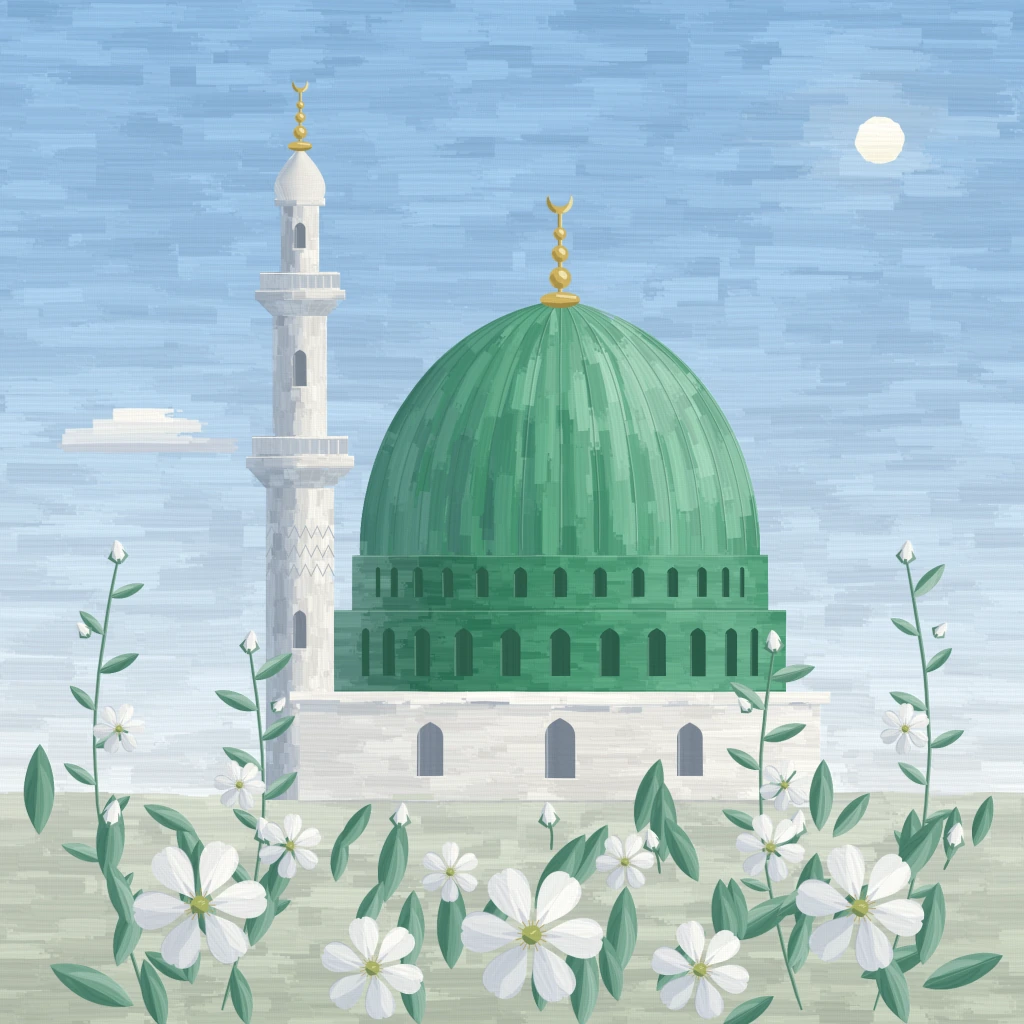
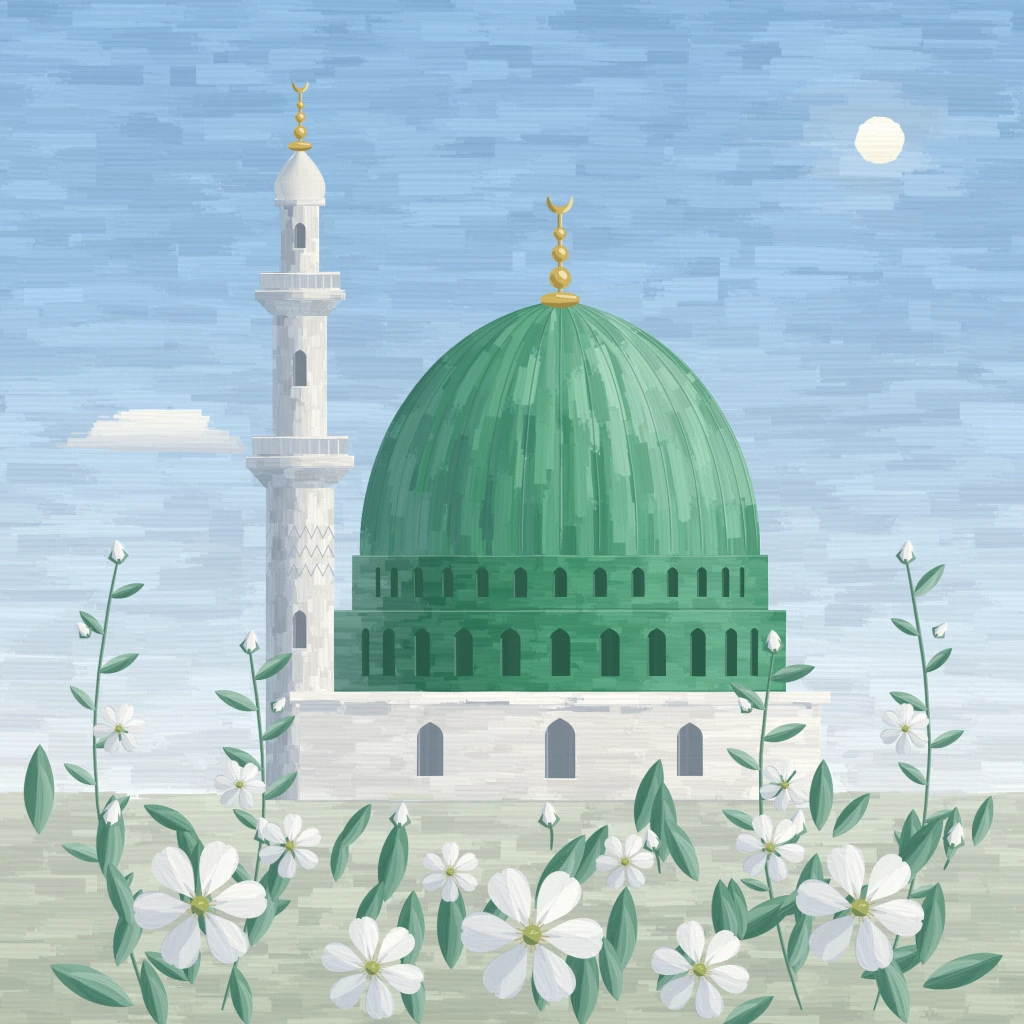
Atölye: altıncı tur son denetimi: S-201–S-210 düzeltmeleri
Claude-Session: https://claude.ai/code/session_01Q8CfoBGMPN7gfLWQYpMs1J

diff --git a/atolye/stiller/S-202-beyaz-astarda-mucevher-renkler/ornek.html b/atolye/stiller/S-202-beyaz-astarda-mucevher-renkler/ornek.html
@@ -429,7 +429,7 @@ const M = (function () {
     if (yk) { YUK[1].save(); YUK[1].clip(o.yol, o.kural || 'nonzero'); }
     for (const [x, y] of nok) {
       if (o.icinde && !o.icinde(x, y)) continue;
-      const boy = o.boy[0] + r() * (o.boy[1] - o.boy[0]);
+      const boy = (o.boy[0] + r() * (o.boy[1] - o.boy[0])) * (o.boyK ? o.boyK(x, y) : 1);
       const en = o.en[0] + r() * (o.en[1] - o.en[0]);
       const P0 = o.akis ? akisDarbe(x, y, o.yon, boy) : cizgiDarbe(x, y, o.yon(x, y, r), boy, (o.egri || 0) * (r() - 0.3), r);
       const c = o.renk(x, y, r);
@@ -716,11 +716,11 @@ const M = (function () {
     BMg.save(); BMg.setTransform(1, 0, 0, 1, 0, 0); BMg.drawImage(GM, 0, 0); BMg.restore();
   }
   // sırlar: az sayıda, geniş (8–14 px), saydam darbe; çoğu yatay, aralarında beyaz astar parlar. Her sır katı kendi
-  // içinde üst üste yığılmaz (bir kat = bir film), katlar birbirinin üstüne çarpılır. Güneşin çevresinde darbeler teğet döner.
+  // içinde üst üste yığılmaz (bir kat = bir film), katlar birbirinin üstüne çarpılır. Güneşin çevresinde darbeler teğet döner ve kısalır (uzun teğet darbeler yıldız kolu gibi uzamasın).
   const gYon = (x, y, r, sap) => { const d = Math.hypot(x - gunes.x, y - gunes.y); return d < 80 ? Math.atan2(y - gunes.y, x - gunes.x) + Math.PI / 2 + (r() - 0.5) * 0.2 : (r() - 0.5) * sap; };
   const gRenk = (us, jj) => (x, y, r) => { const c = kok(gokHedef(x, y), us); const j = (r() - 0.5) * jj, h = (r() - 0.5) * jj * 0.6; return [c[0] + j - Math.abs(h) * 0.3, c[1] + j + h * 0.4, c[2] + j * 0.35]; };
   const gunesUzak = (d0) => (x, y) => gokIc(x, y) && Math.hypot(x - gunes.x, y - gunes.y) > d0;
-  sir((k) => gokKat(k, { kutu: [-30, -20, 1054, 806], aralik: 14, boy: [70, 150], en: [11, 14], yon: (x, y, r) => gYon(x, y, r, 0.07), icinde: gokIc, renk: gRenk(0.64, 12), egri: 0.05, darbe: { a: 0.92, govde: 0.9, kil: 6, kilK: 6, kilA: 0.3, yuk: 0.7, uc: 'kare', bas: 0.9, govdeSon: 0.8 }, tohum: 2 }), [0, 0, 1024, 810], { sil: BM });
+  sir((k) => gokKat(k, { kutu: [-30, -20, 1054, 806], aralik: 14, boy: [70, 150], boyK: (x, y) => { const d = Math.hypot(x - gunes.x, y - gunes.y); return d < 80 ? 0.42 + 0.58 * Math.pow(sat((d - 24) / 56), 1.5) : 1; }, en: [11, 14], yon: (x, y, r) => gYon(x, y, r, 0.07), icinde: gokIc, renk: gRenk(0.64, 12), egri: 0.05, darbe: { a: 0.92, govde: 0.9, kil: 6, kilK: 6, kilA: 0.3, yuk: 0.7, uc: 'kare', bas: 0.9, govdeSon: 0.8 }, tohum: 2 }), [0, 0, 1024, 810], { sil: BM });
   sir((k) => gokKat(k, { kutu: [-20, -20, 1044, 806], aralik: 20, boy: [50, 110], en: [9, 13], yon: (x, y, r) => (r() - 0.5) * 0.25, icinde: gunesUzak(70), renk: gRenk(0.26, 10), egri: 0.08, darbe: { a: 0.9, govde: 0.9, kil: 4, kilK: 5, kilA: 0.3, yuk: 0.75, uc: 'kare', bas: 0.85, govdeSon: 0.8 }, tohum: 3 }), [0, 0, 1024, 810], { sil: BM });
   // hafif ikinci geçiş: tek bir açıda, seyrek
   sir((k) => gokKat(k, { kutu: [-20, -20, 1044, 806], aralik: 30, boy: [24, 44], en: [8, 11], yon: (x, y, r) => 0.5 + (r() - 0.5) * 0.2, icinde: gunesUzak(80), renk: gRenk(0.1, 8), egri: 0.1, darbe: { a: 0.85, govde: 0.9, kil: 3, kilK: 5, kilA: 0.25, yuk: 0.85, uc: 'sivri', bas: 0.8, govdeSon: 0.85 }, tohum: 4 }), [0, 0, 1024, 810], { sil: BM });

diff --git a/atolye/stiller/S-210-kuzey-gun-isigi-yagliboya/ornek.html b/atolye/stiller/S-210-kuzey-gun-isigi-yagliboya/ornek.html
@@ -1073,17 +1073,19 @@ K.cicekOrta = function (c, cx, cy, r, renk, R, o) {
   // tek küçük, ince, düz tabanlı bulut: yatay, kaynaşmış birkaç darbe; tabanda serin gri, tepede beyaz
   {
     const rb = S.rng(2101);
-    const sira = [
-      { y: 446, x0: 52, x1: 238, w: 13, c: K.hex('#C9D2DB') },
-      { y: 436, x0: 64, x1: 226, w: 14, c: K.hex('#DFE4E8') },
-      { y: 426, x0: 86, x1: 210, w: 14, c: K.hex('#EEF0EE') },
-      { y: 416, x0: 108, x1: 186, w: 12, c: K.hex('#F7F6F1') },
-    ];
+    // sıralar sık ve birbirine binerek dizilir; uçları düzensiz kaydırılır ki siluet basamaklı değil, yassı bir mercek olsun
+    const renkler = [K.hex('#C9D2DB'), K.hex('#D6DDE3'), K.hex('#DFE4E8'), K.hex('#E8EBEB'), K.hex('#EEF0EE'), K.hex('#F3F3EF'), K.hex('#F7F6F1')];
+    const sira = renkler.map((c, i) => {
+      const t = i / (renkler.length - 1);
+      const yari = 96 * Math.pow(1 - t * 0.78, 0.55);
+      const cx = 146 + t * 6;
+      return { y: 447 - i * 5.2, x0: cx - yari * (1 - t * 0.12), x1: cx + yari, w: 11 - t * 2, c };
+    });
     for (const q of sira) {
       for (let k = 0; k < 2; k++) {
-        const o = (rb() - 0.5) * 16;
-        const pts = [[q.x0 + o + k * 6, q.y + (rb() - 0.5) * 2], [(q.x0 + q.x1) / 2, q.y - 1 + (rb() - 0.5) * 2], [q.x1 + o - k * 8, q.y + (rb() - 0.5) * 2]];
-        fn(ctx, pts, { w: q.w * (k ? 0.75 : 1), renk: K.kay(q.c, (rb() - 0.5) * 6), a: 0.93, jit: 3, kuru: 0.9, ucBoy: 0.3, h, hv: 0.34, ha: 0.7 });
+        const o0 = (rb() - 0.5) * 22, o1 = (rb() - 0.5) * 22;
+        const pts = [[q.x0 + o0 + k * 10, q.y + (rb() - 0.5) * 2], [(q.x0 + q.x1) / 2, q.y - 1 + (rb() - 0.5) * 2], [q.x1 + o1 - k * 12, q.y + (rb() - 0.5) * 2]];
+        fn(ctx, pts, { w: q.w * (k ? 0.75 : 1), renk: K.kay(q.c, (rb() - 0.5) * 6), a: 0.9, jit: 3, kuru: 0.95, ucBoy: 0.42, h, hv: 0.34, ha: 0.7 });
       }
     }
   }

diff --git a/atolye/stiller/S-212-yumurta-temperasi-tarama/ornek.html b/atolye/stiller/S-212-yumurta-temperasi-tarama/ornek.html
@@ -1094,7 +1094,7 @@ const kaideTon = (x, y) => {
 };
 const kaideOrt = { kutu: [296, 700, 826, 802], klip: kaideYol, hucre: [16, 9], boy: [14, 20], ara: [2.8, 3.2], en: [1.5, 2] , sapma: 0.04, oyna: 4 };
 orgu(ctx, Object.assign({}, kaideOrt, { n: (x, y) => 1.6 + kaideTon(x, y) * 2, yon: () => 0.03, renk: (x, y, r) => karis(hex('#EFE4CB'), hex('#E2CFA6'), r() * 0.5), alfa: [0.72, 0.9], tohum: 51 }));
-orgu(ctx, Object.assign({}, kaideOrt, { n: (x, y) => clamp((kaideTon(x, y) - 0.22) * 4.5, 0, 3), yon: () => 0.3, renk: () => P.griMavi, alfa: [0.65, 0.88], tohum: 53 }));
+orgu(ctx, Object.assign({}, kaideOrt, { n: (x, y) => clamp((kaideTon(x, y) - 0.3) * 4.5, 0, 3), yon: () => 0.3, renk: () => P.griMavi, alfa: [0.65, 0.88], tohum: 53 }));
 orgu(ctx, Object.assign({}, kaideOrt, { icinde: (x, y) => y < 720, n: (x, y) => clamp((kaideTon(x, y) - 0.3) * 5, 0, 3), yon: () => -0.3, renk: () => P.gul, alfa: [0.6, 0.85], tohum: 52 }));
 const kornisYol = titrekYol(Y.kornis, 0.4, 0.06, 1.5);
 tara(ctx, { kutu: [286, 690, 834, 706], klip: kornisYol, aralik: 9, n: [2, 3], boy: [14, 22], ara: [3, 3.6], en: [1.6, 2.2], yog: (x, y) => (y > 698 ? 0.9 : 0.25), yon: () => 0, renk: (x, y) => (y > 698 ? P.gul : P.okrAcik), alfa: [0.7, 0.9], tohum: 54 });
